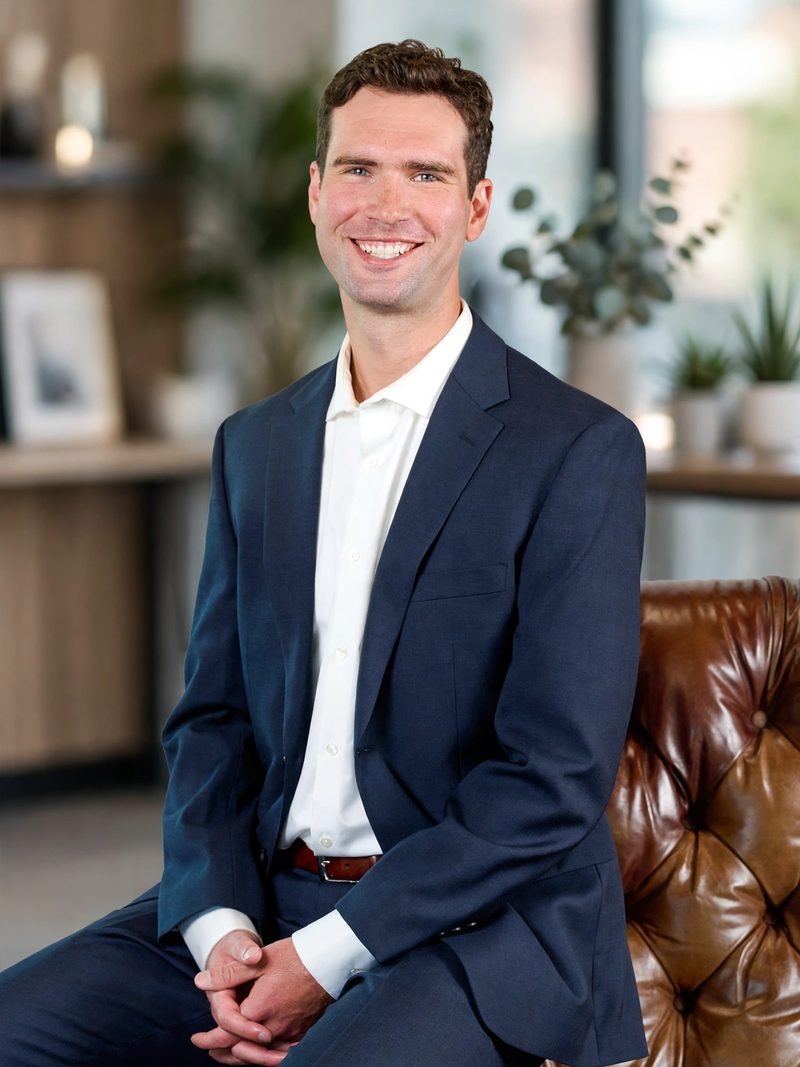
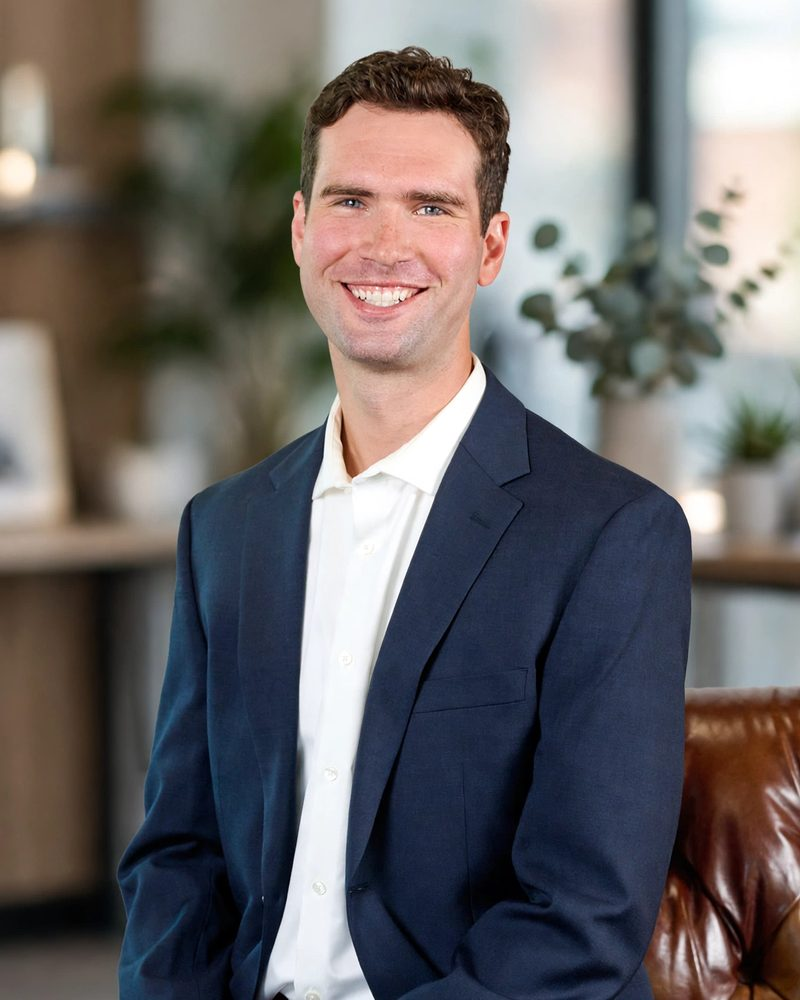
Crop the About portrait above the hands

diff --git a/index.html b/index.html
@@ -159,7 +159,7 @@
         <p>I like problems that are part puzzle and part plumbing: find the pattern, then automate it so nobody has to do it by hand again. Outside work I build things for myself too, like a Python pipeline that prints a personal newspaper each morning and a triathlon training dashboard.</p>
       </div>
       <div class="about-side">
-        <picture class="portrait"><source type="image/webp" srcset="assets/img/nick-portrait-480.webp 480w, assets/img/nick-portrait-800.webp 800w" sizes="(max-width: 820px) 340px, 400px"><img src="assets/img/nick-portrait-800.jpg" width="800" height="1067" loading="lazy" alt="Nick Campuzano"></picture>
+        <picture class="portrait"><source type="image/webp" srcset="assets/img/nick-portrait-480.webp 480w, assets/img/nick-portrait-800.webp 800w" sizes="(max-width: 820px) 340px, 400px"><img src="assets/img/nick-portrait-800.jpg" width="800" height="1000" loading="lazy" alt="Nick Campuzano"></picture>
       <dl class="facts">
         <div><dt>Based in</dt><dd>Minneapolis, MN</dd></div>
         <div><dt>Looking for</dt><dd>FP&amp;A, financial analyst, BI analyst</dd></div>
